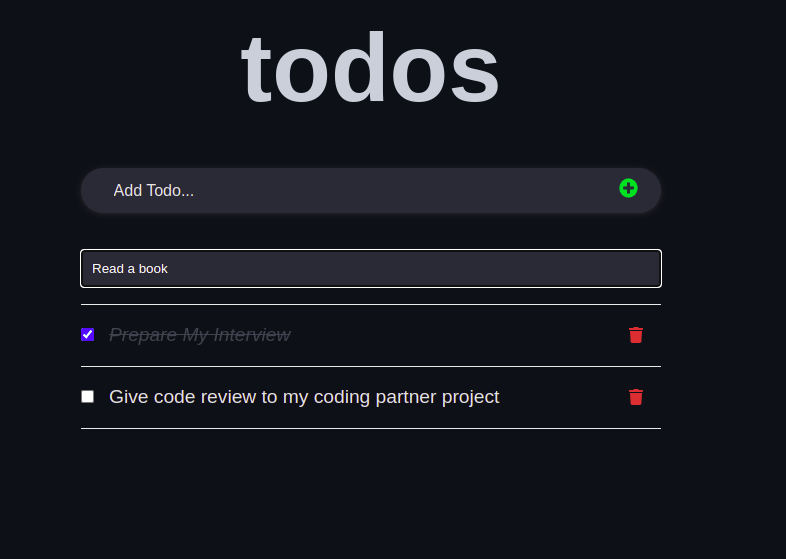
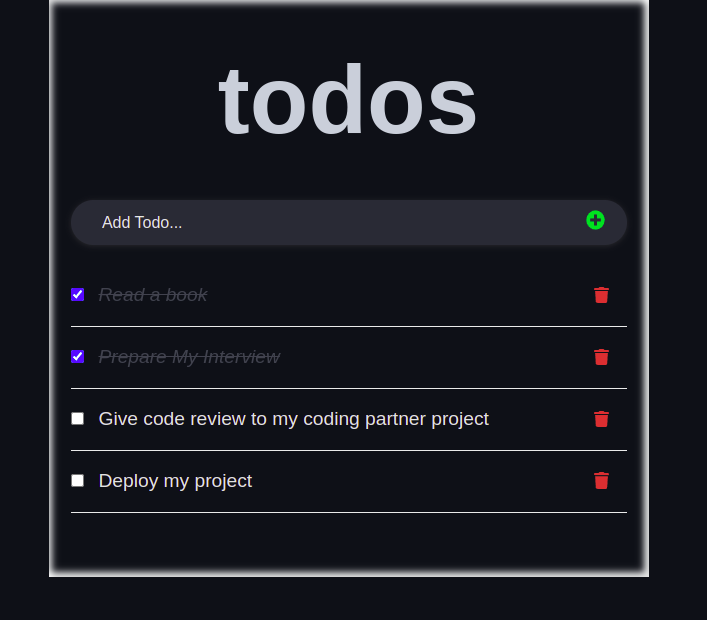
Add the box shadow on the layout and the page screenshot

Changed region(s): [[0.0622, 0.0, 0.9335, 0.9428], [0.1245, 0.8211, 0.8713, 0.8515], [0.8402, 0.7603, 0.8713, 0.7907]]

diff --git a/src/assets/scss/base/_todos.scss b/src/assets/scss/base/_todos.scss
@@ -4,7 +4,10 @@
 
   & .inner {
     width: 100%;
-    padding: 2rem 10px 4rem;
+    padding: 2rem 22px 4rem;
+    box-shadow:
+      inset -5px -5px 7px $text-color,
+      inset 3px 3px 7px $text-color;
 
     & .form-container {
       width: 100%;
